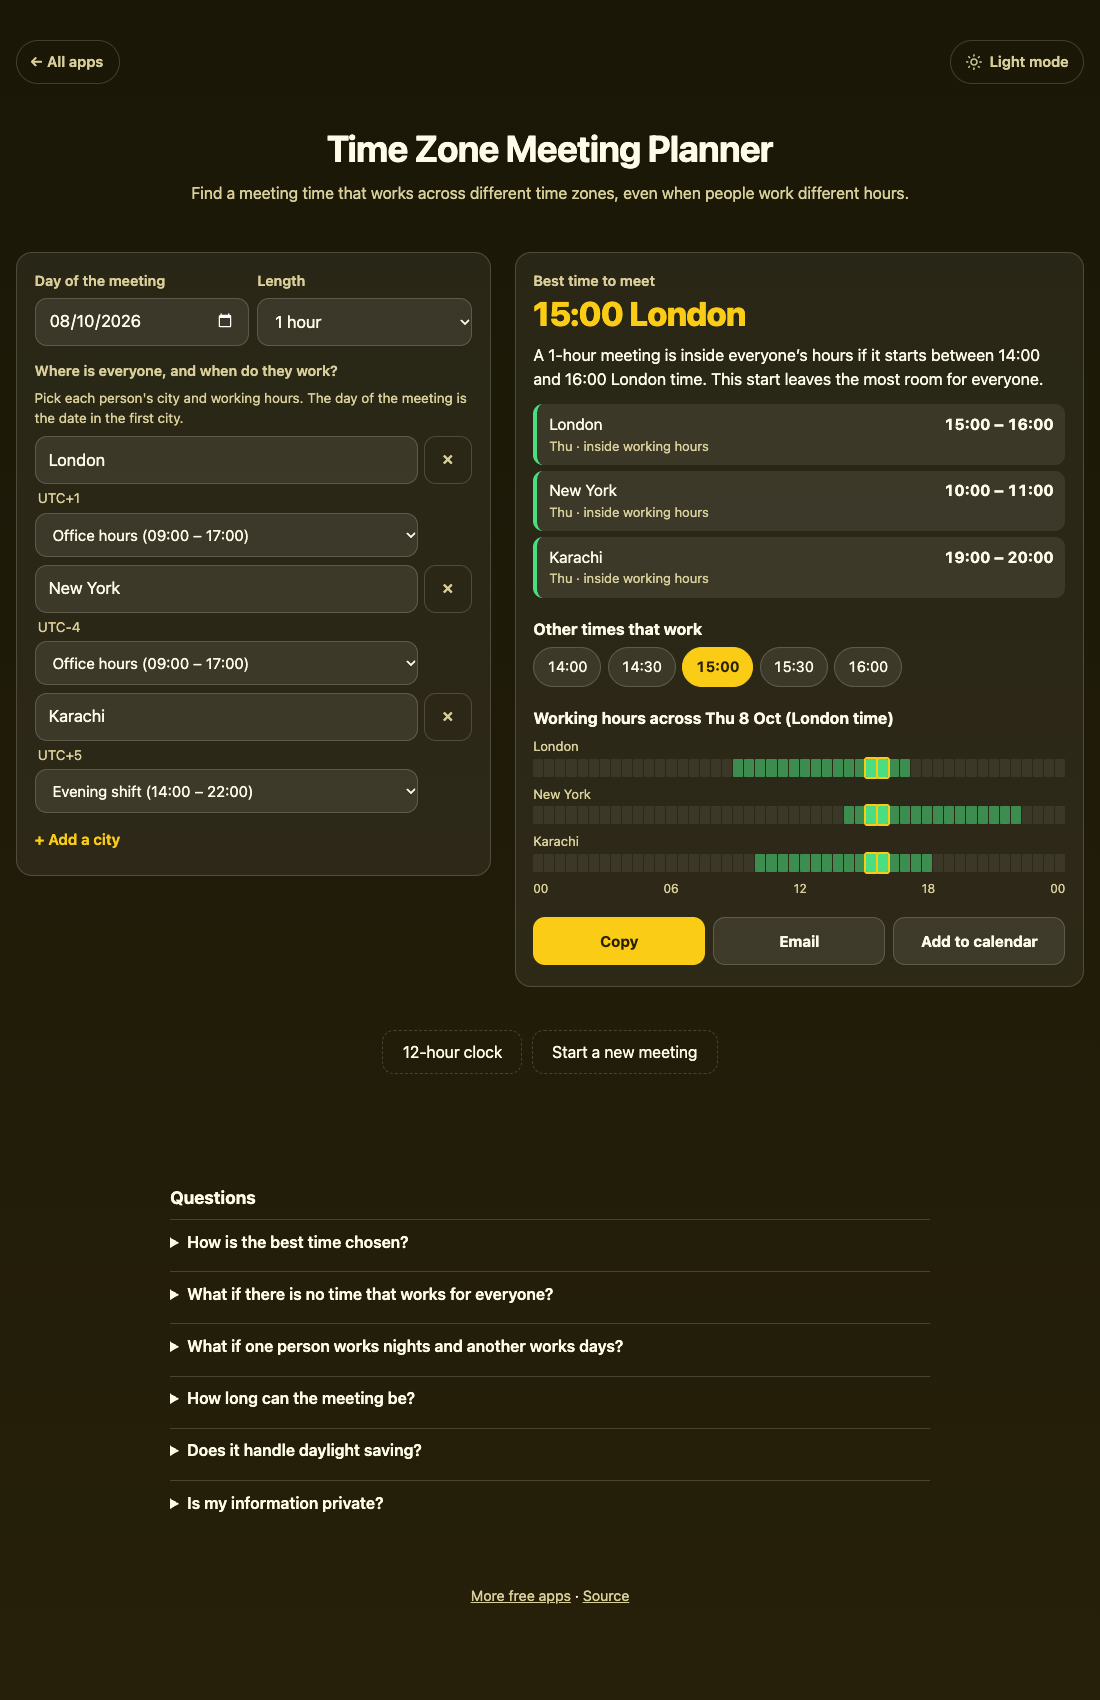
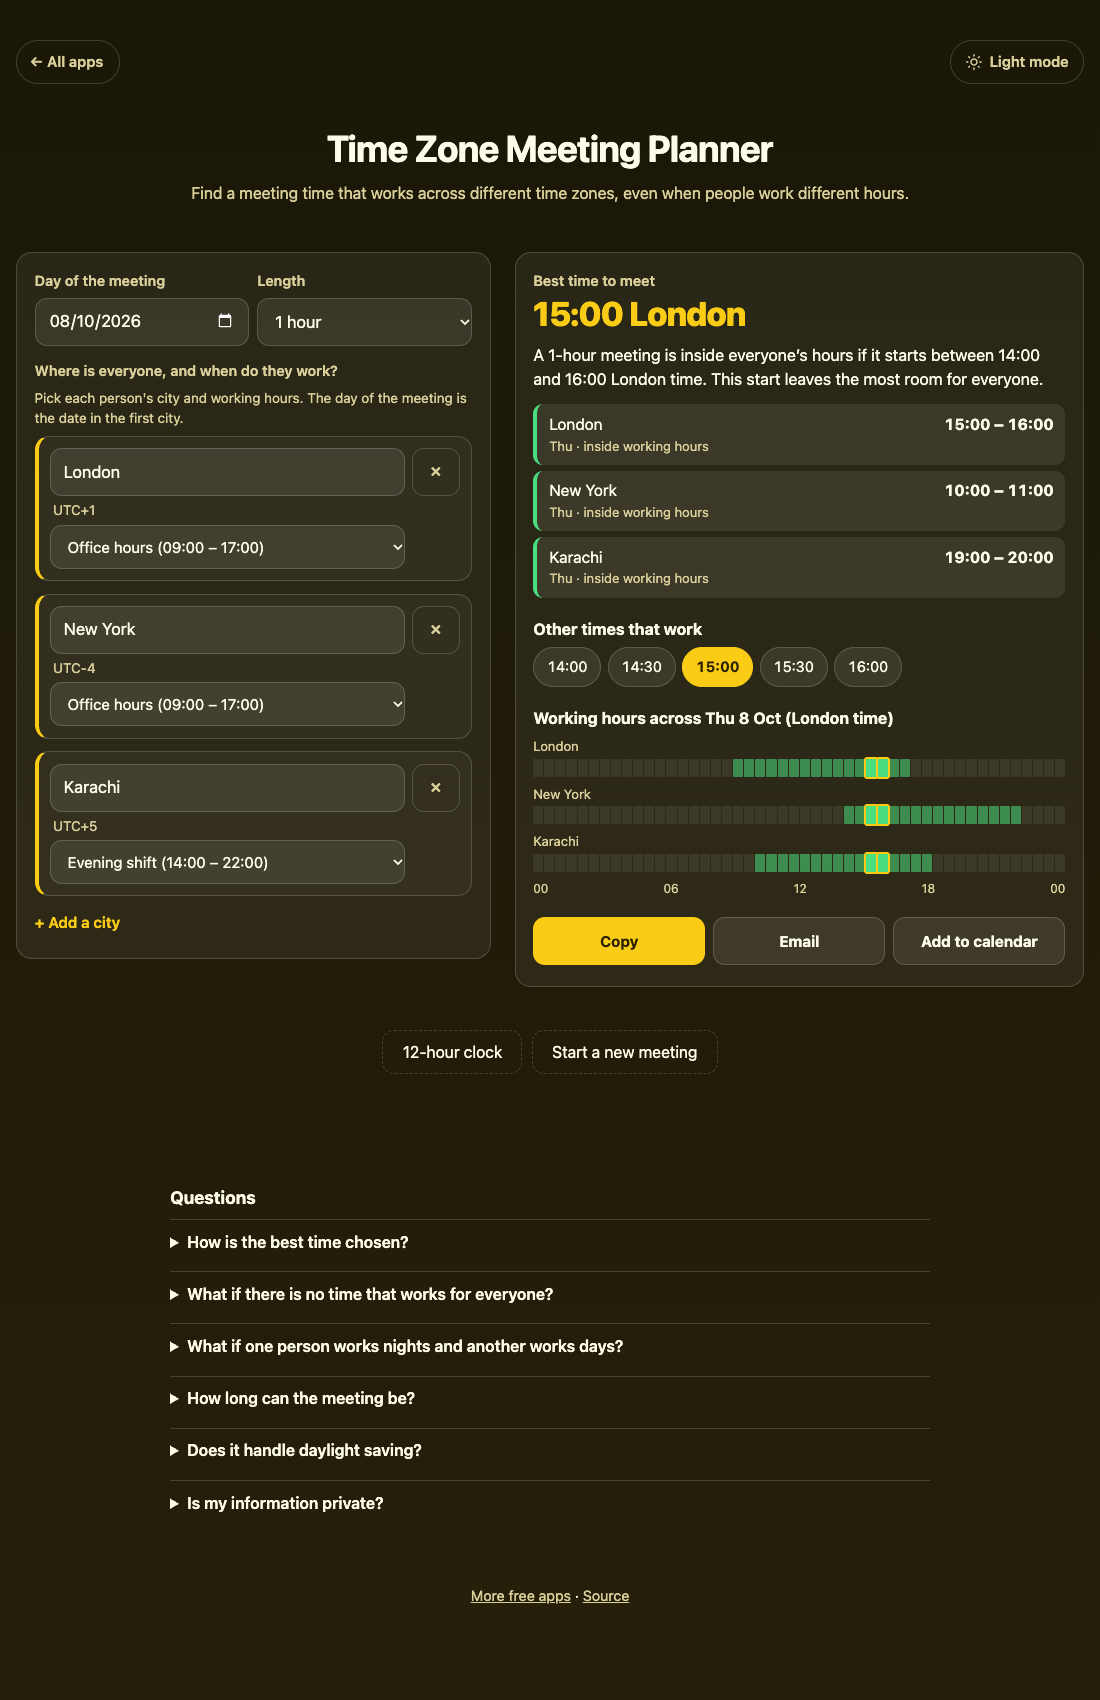
Time Zone Meeting Planner: show each city and its hours in its own box

Changed region(s): [[0.0309, 0.2494, 0.4327, 0.5612], [0.3709, 0.2494, 0.4018, 0.2806]]

diff --git a/time-zone-meeting-planner/style.css b/time-zone-meeting-planner/style.css
@@ -31,8 +31,8 @@ input:focus-visible, button:focus-visible, select:focus-visible, summary:focus-v
 .link { margin: .5rem 0 0; padding: .4rem 0; min-height: 36px; border: 0; background: none; color: var(--accent); font: inherit; font-size: .95rem; font-weight: 600; cursor: pointer; }
 .hint { margin: 0 0 .5rem; color: var(--muted); font-size: .85rem; }
 .error { margin: .6rem 0 0; color: var(--bad); font-weight: 600; }
-.people { list-style: none; margin: 0; padding: 0; display: grid; gap: .5rem; }
-.person { display: grid; grid-template-columns: 1fr auto; gap: .4rem; align-items: start; }
+.people { list-style: none; margin: 0; padding: 0; display: grid; gap: .8rem; }
+.person { display: grid; grid-template-columns: 1fr auto; gap: .4rem; align-items: start; padding: .7rem; border: 1px solid var(--line); border-left: 4px solid var(--accent); border-radius: 14px; background: rgba(127,127,127,.08); }
 .person .city { display: grid; gap: .25rem; }
 .person .meta { font-size: .85rem; color: var(--muted); min-height: 1.2em; padding-left: .2rem; }
 .person .meta.bad { color: var(--bad); font-weight: 600; }

diff --git a/time-zone-meeting-planner/sw.js b/time-zone-meeting-planner/sw.js
@@ -1,7 +1,7 @@
 // Saves the app on the device so it opens with no connection.
 // Files are served from the saved copy and refreshed in the background, so updates arrive on the next visit.
 // Change CACHE only when you add, remove or rename a file in FILES.
-const CACHE = 'time-zone-meeting-planner-v1';
+const CACHE = 'time-zone-meeting-planner-v2';
 const FILES = ['../theme.js', './', 'index.html', 'style.css', 'core.js', 'script.js', 'favicon.svg', 'manifest.webmanifest',
     'icons/icon-192.png', 'icons/icon-512.png', 'icons/apple-touch-icon.png'];
 
